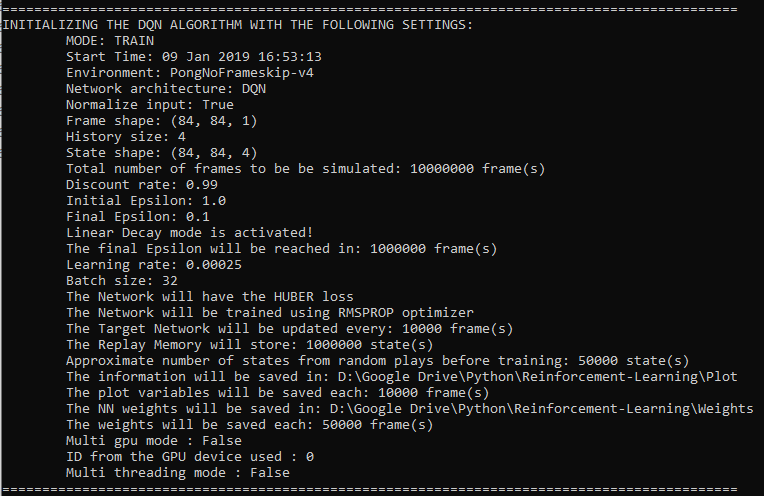
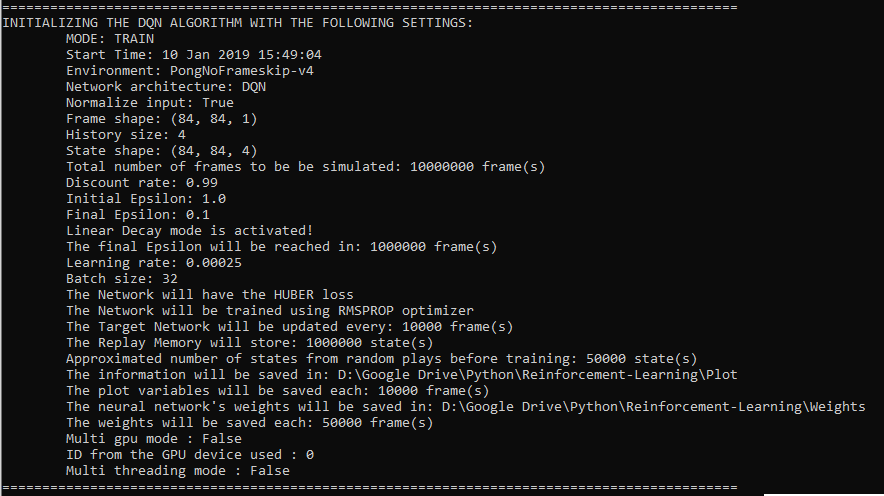
Correcting the bugs.

Changed region(s): [[0.0, 0.0, 1.0, 1.0]]

diff --git a/Base_agent.py b/Base_agent.py
@@ -179,7 +179,7 @@ class Agent:
         :param  weights_load_path : str (Default: "")
                     Path of the .h5 file with the weights of the Network to be loaded.
 
-        :param  loss_type : str (Default: "hubber")
+        :param  loss_type : str (Default: "huber")
                     Name of the type of loss function that will be used to train the Network. There are two
                     possible types: "huber" and "MSE".
 
@@ -201,7 +201,7 @@ class Agent:
                     If false, you can select what gpu to use (if there is more than one).
 
         :param  gpu_device : int (Default : 0 [first gpu])
-                    The number of the gpu device that will be used in the case of the multi_gpu variable
+                    The ID of the gpu device that will be used in the case of the multi_gpu variable
                     is False. To use the gpu, send -1.
 
         :param  multi_threading : bool (Default : False)
@@ -385,7 +385,7 @@ class Agent:
             strr += "\n\tThe Network will be trained using {} optimizer".format(self.optimizer.upper())
             strr += "\n\tThe Target Network will be updated every: {} frame(s)".format(self.target_update)
             strr += "\n\tThe Replay Memory will store: {} state(s)".format(self.replay_memory.num_states_stored)
-            strr += "\n\tApproximate number of states from random plays before training: {} state(s)" \
+            strr += "\n\tApproximated number of states from random plays before training: {} state(s)" \
                 .format(self.num_random_play)
         if self.to_save_episodes:
             strr += "\n\tThe episode will be saved in: {}".format(self.path_save_episodes)
@@ -396,7 +396,7 @@ class Agent:
             strr += "\n\tLoad the weights is set to True!"
             strr += "\n\tThe weights will be loaded from : {}".format(self.weights_load_path)
         if self.mode == "train":
-            strr += "\n\tThe NN weights will be saved in: {}".format(self.path_save_weights)
+            strr += "\n\tThe neural network's weights will be saved in: {}".format(self.path_save_weights)
             strr += "\n\tThe weights will be saved each: {} frame(s)".format(self.steps_save_weights)
         strr += "\n\tMulti gpu mode : {}".format(self.multi_gpu)
         if not self.multi_gpu:
@@ -436,7 +436,7 @@ class Agent:
         Function that initializes the tensorflow graph that computes the NN training.
 
         This function creates the tensorflow graph that will compute the NN error and training. The network
-        can be trained by two different losses, hubber loss (default) and mse (Mean Squared Error), the type of
+        can be trained by two different losses, huber loss (default) and mse (Mean Squared Error), the type of
         loss used is defined on the initialization of this class by the parameter "loss_type". This function
         allows you to choose between two optimizers: RMSProp (with the settings given by the DQN Paper) and
         ADAM (with tensorflow defaults arguments), this choice is also made on the initialization by the 
@@ -1008,7 +1008,7 @@ def agent_arg_parser(parser):
     parser.add_argument("--multi_gpu", default=False, type=str2bool,
         help="If false, you can select what gpu to use (if there is more than one). Type:bool. Default:False")
     parser.add_argument("--gpu_device", default=0, type=int,
-        help="The number of the gpu device that will be used in the case of the multi_gpu variable "
+        help="The ID of the gpu device that will be used in the case of the multi_gpu variable "
         "is False and there is multiple GPUs. Type:int. Default:0")
     parser.add_argument("--multi_threading", default=False, type=str2bool,
         help="If this mode is active the sampling part of the algorithm will be done in parallel with the main"
